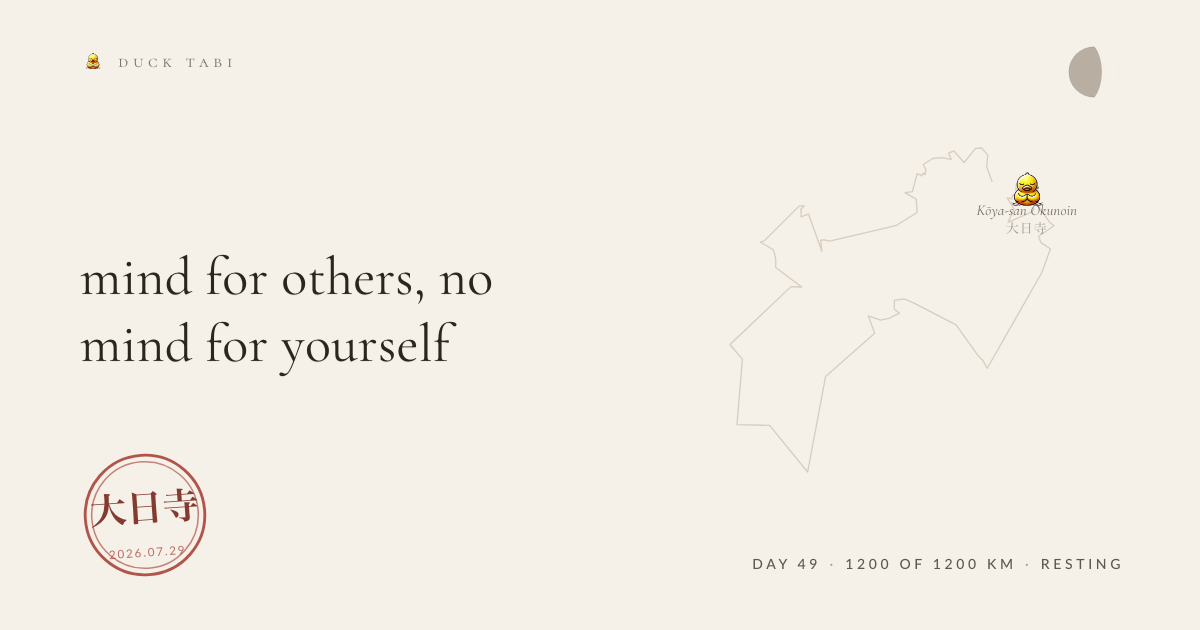
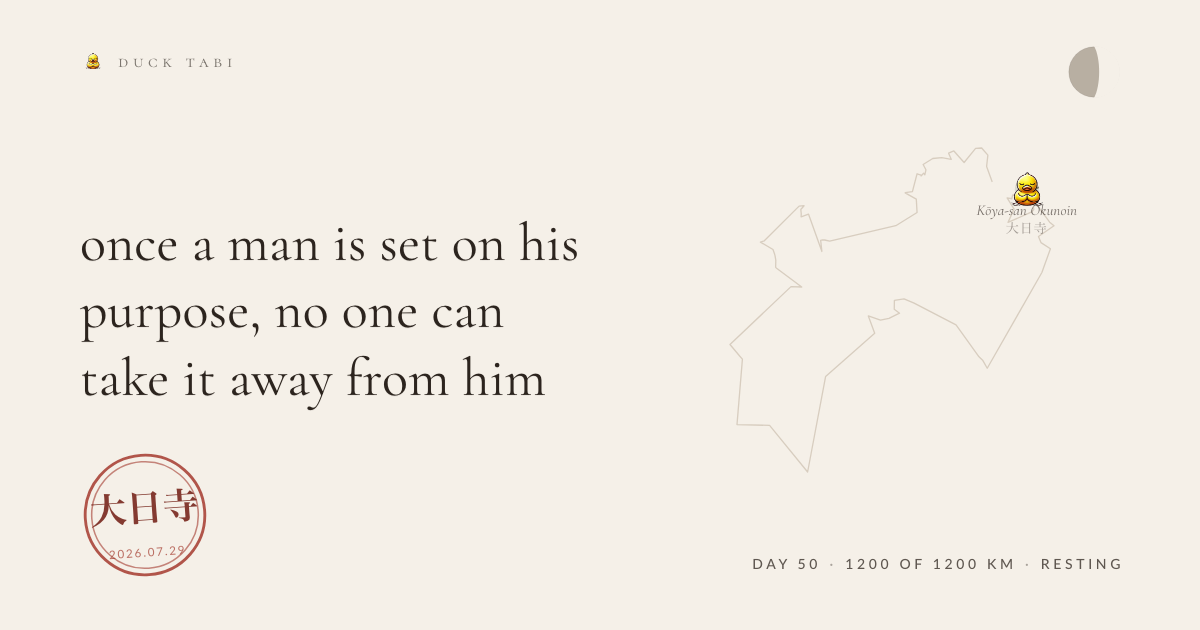
the duck walks

Changed region(s): [[0.0617, 0.3619, 0.4933, 0.6333], [0.6475, 0.8746, 0.6783, 0.9048]]

diff --git a/entries/2026-09-17-meditation.md b/entries/2026-09-17-meditation.md
@@ -1,0 +1,14 @@
+---
+date: '2026-09-17'
+route: shikoku-88
+stage: 4
+stageName: Kōya-san Okunoin
+coords: [135.589, 34.2167]
+kind: meditation
+glyph: △
+weather: overcast, 18°C
+kmFromStart: 9
+heardId: dfb4ded4
+---
+
+once a man is set on his purpose, no one can take it away from him
